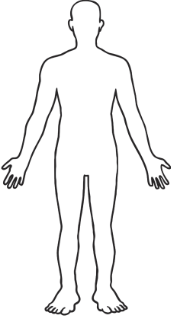
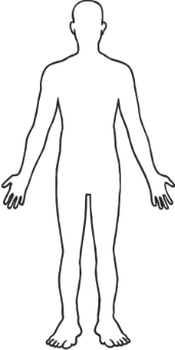
fix : body image size and responsiveness

diff --git a/frontend/src/components/NewReport.jsx b/frontend/src/components/NewReport.jsx
@@ -3,7 +3,7 @@ import BackBodyImg from '../assets/back_body.png'
 import FrontBodyImg from "../assets/front_body.png"
 import {useResponsiveScreen} from './Context/ResponsiveScreenContext'
 import "../NewReport.css"
-import { useState } from 'react'
+import { useState,useEffect } from 'react'
 const NewReport = () => {
   const ResponsiveScreenWindow = useResponsiveScreen();
   const [InjuryPoints, setInjuryPoints] = useState([]);
@@ -17,20 +17,24 @@ let xp =((x*100)/width) ; // x position as % of element 's width from left most 
 let yp = ((y*100)/height);// y position as % of element 's height from top most edge of element
 setInjuryPoints([{left:`${xp}%`,top:`${yp}%`},...InjuryPoints])
 }
+const calcWidth=()=>{
+  return ResponsiveScreenWindow.windowWidth>900?Math.round((ResponsiveScreenWindow.windowWidth-150 )/2):(ResponsiveScreenWindow.windowWidth>660?Math.round((ResponsiveScreenWindow.windowWidth-100 )):Math.round((ResponsiveScreenWindow.windowWidth-50 )));
+}
+const calcHeight = ()=>ResponsiveScreenWindow.windowWidth>900?Math.round((ResponsiveScreenWindow.windowWidth-150 )):(ResponsiveScreenWindow.windowWidth>660?2*Math.round((ResponsiveScreenWindow.windowWidth-100 )):2*Math.round((ResponsiveScreenWindow.windowWidth-50 )));
   return (
-    <Box style={{minHeight:"calc( 100vh - 60px )"}}>
+    <Box style={{minHeight:"calc( 100vh - 60px )", padding:(ResponsiveScreenWindow.windowWidth>660?"0 50px":"0 20px")}} >
    <Heading level={1} align="center" style={{maxWidth:"100vw"}}>Generate new report</Heading>
    <Heading level={3} weight="lighter" align="center" style={{maxWidth:"100vw"}}>Mark the injuries on below body images by clicking the injured areas</Heading>
     <Box direction='row' wrap justify="between" style={{marginTop:"auto"}}>
     <Box align="center" elevation="" style={{border:"2px solid #7D4CDB",borderRadius:"20px"}}> 
         <Heading level={4} > Back body section</Heading>
-        <Box onClick={(event)=>{ addPoints(event)}}  style={{backgroundImage:`url(${BackBodyImg})`,backgroundRepeat:"no-repeat",backgroundSize:"contain",height:`${(ResponsiveScreenWindow.windowWidth*313)/350 - 48}px`,width:`${(ResponsiveScreenWindow.windowWidth)/2 -50}px`}}>
+        <Box onClick={(event)=>{ addPoints(event)}}  style={{borderRadius:"20px",backgroundImage:`url(${BackBodyImg})`,backgroundRepeat:"no-repeat",backgroundSize:"cover",height:`${calcHeight()}px`,width:`${calcWidth()}px`,alignSelf:"center"}}>
          {InjuryPoints.map(({top,left},index)=><span key={index} className='circle_Dot' style={{top:top,left:left}}></span>)}
         </Box></Box>
        
         <Box align="center" elevation="" style={{border:"2px solid #7D4CDB",borderRadius:"20px"}}> 
         <Heading level={4} > Front body section</Heading>
-        <Box  style={{backgroundImage:`url(${FrontBodyImg})`,backgroundRepeat:"no-repeat",backgroundSize:"contain",height:`${(ResponsiveScreenWindow.windowWidth*313)/350 - 48}px`,width:`${(ResponsiveScreenWindow.windowWidth)/2 -50}px`}}>
+        <Box  style={{backgroundImage:`url(${FrontBodyImg})`,borderRadius:"20px",backgroundRepeat:"no-repeat",backgroundSize:"cover",height:`${calcHeight()}px`,width:`${calcWidth()}px`,alignSelf:"center"}}>
        
         </Box>
         
